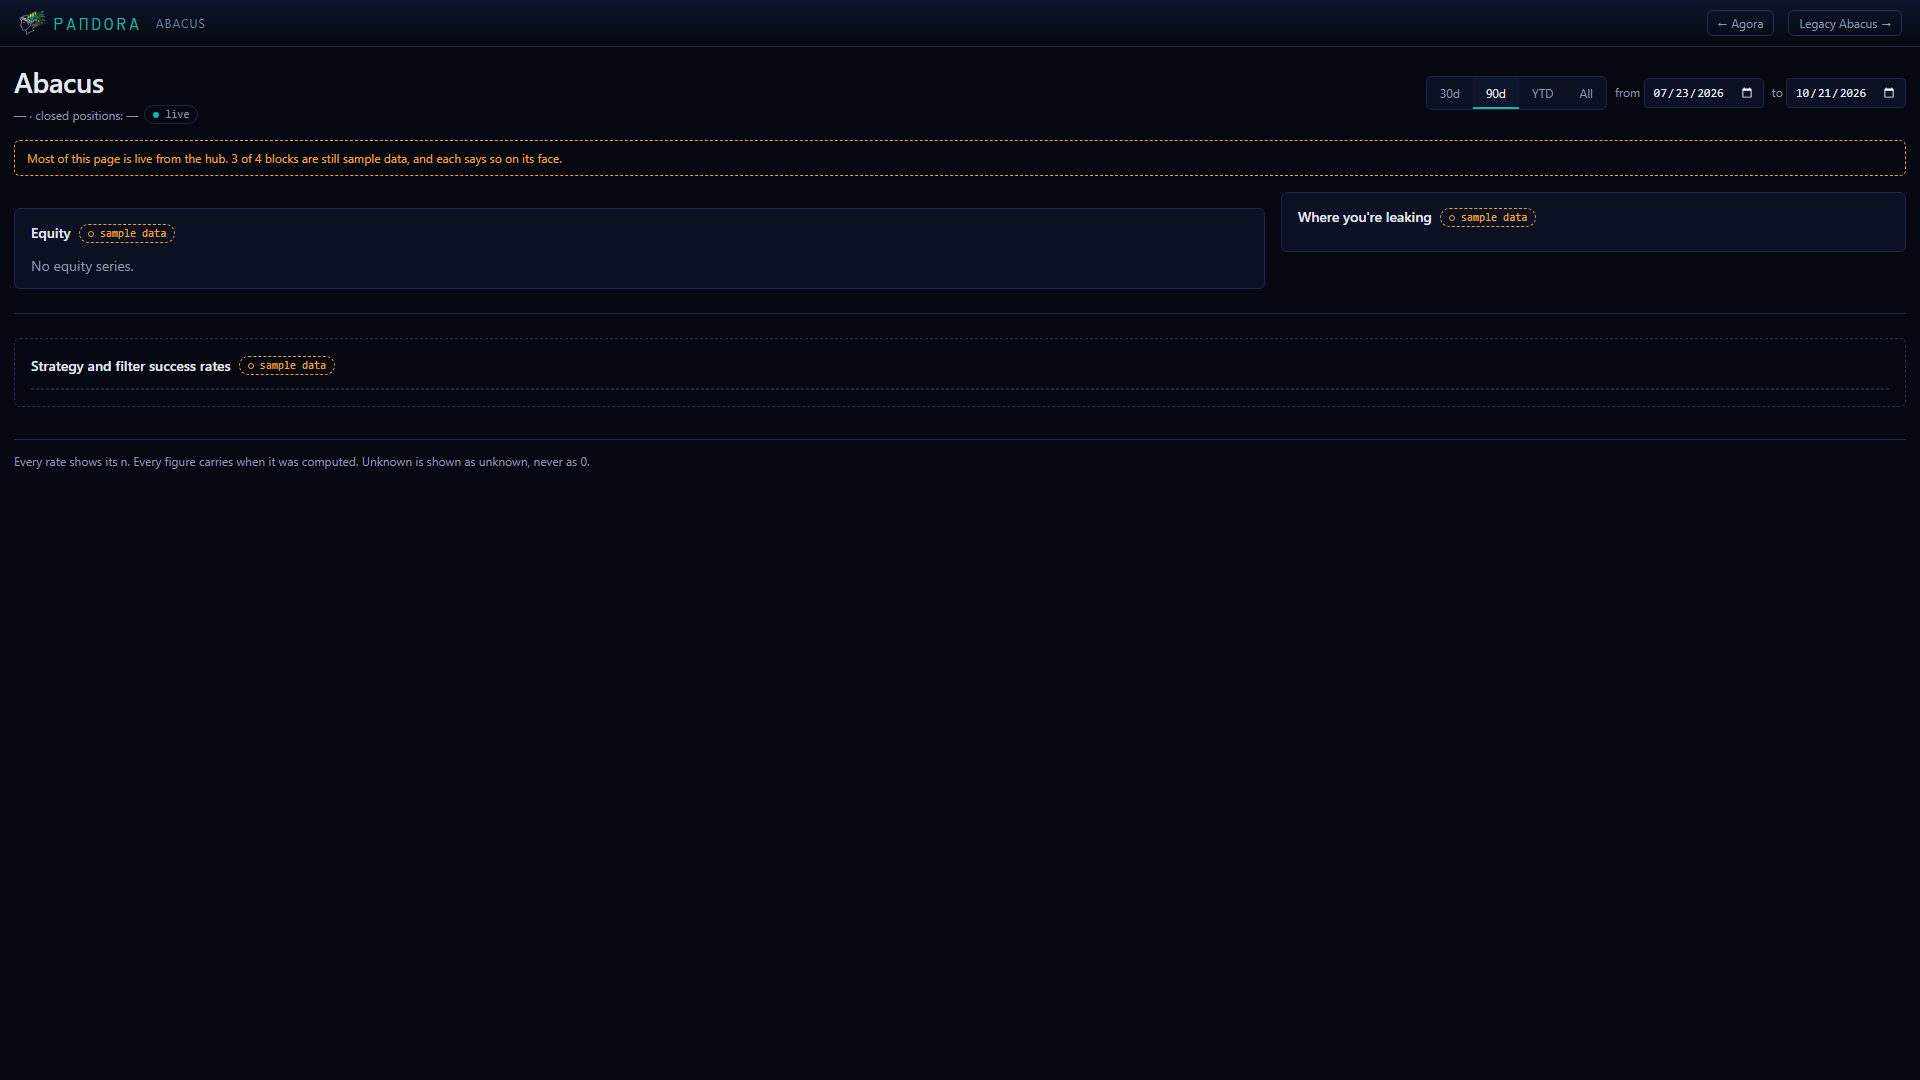
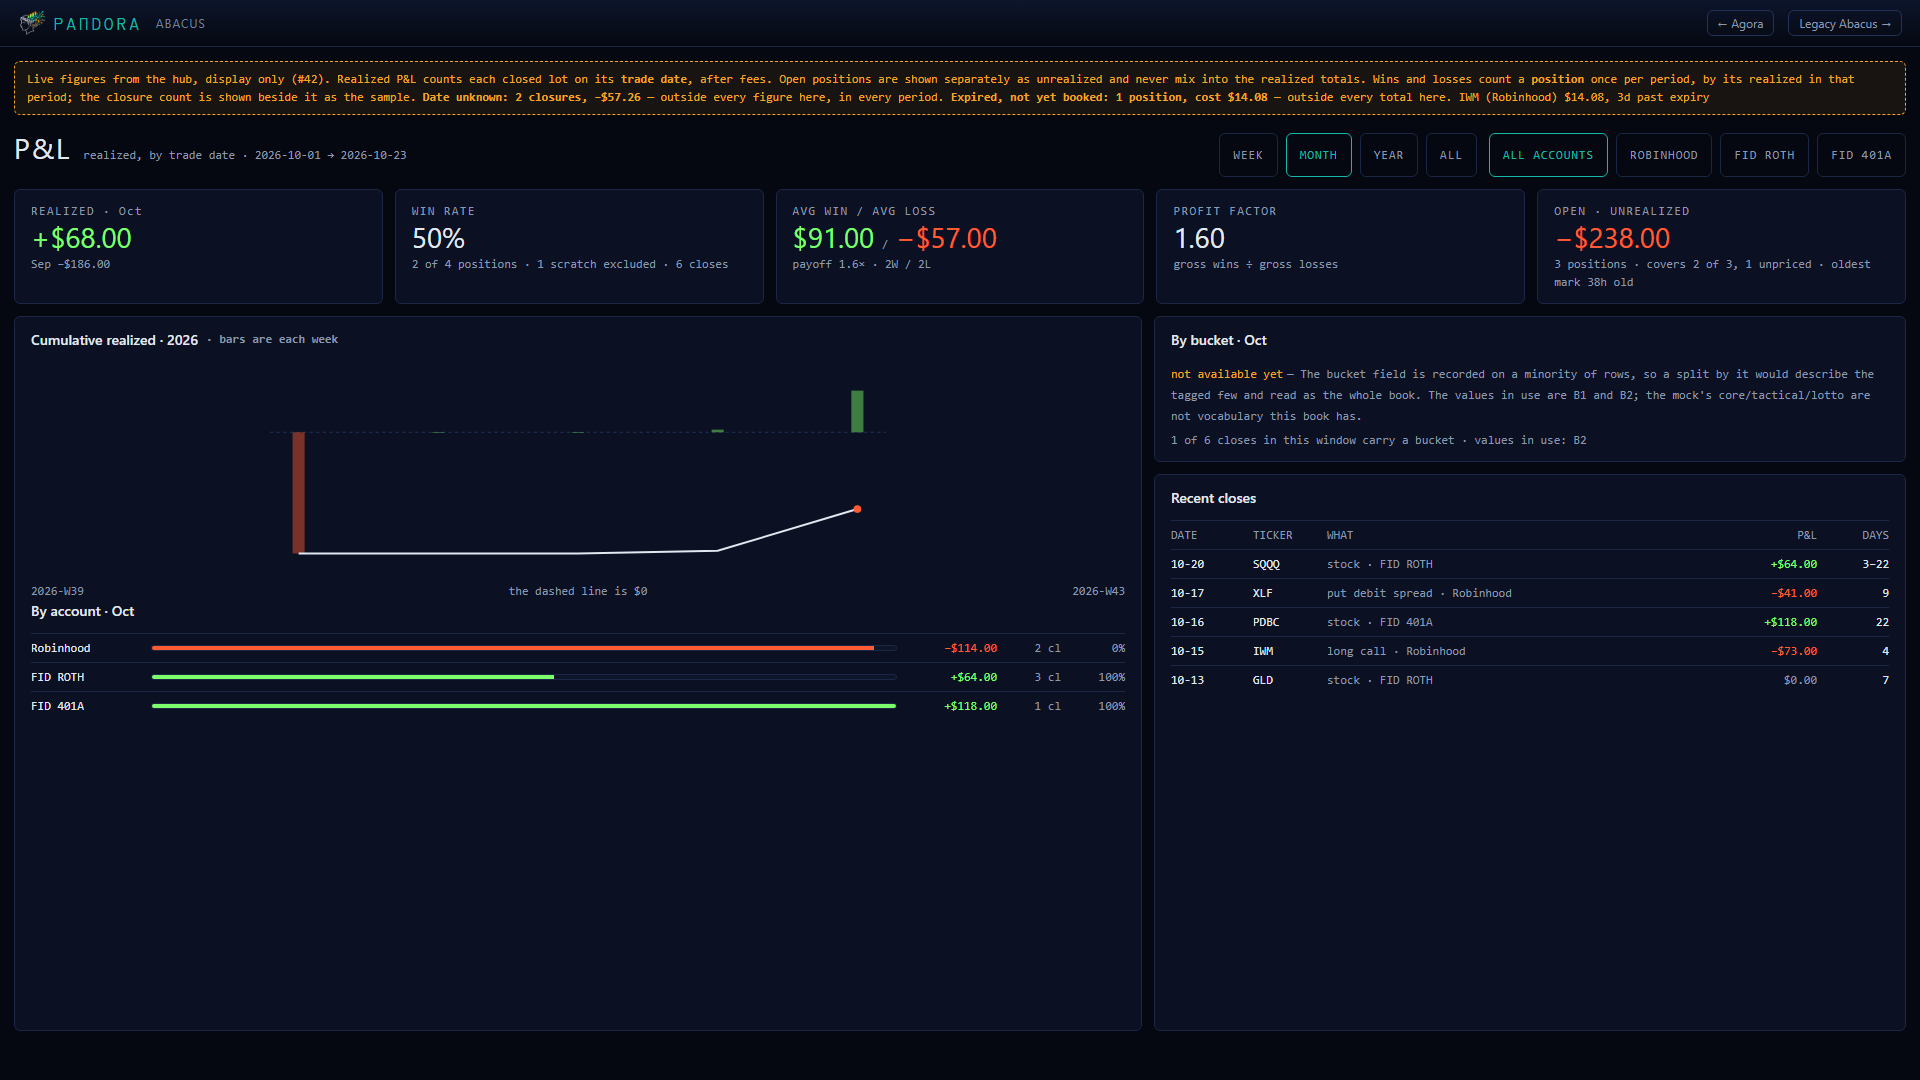
fix(abacus): the P&L page fits a phone (R-IV.1365(b)) (#77)
Five defects from the R-IV.1362 audit, all mine, all on the page Nick reads.

(b)1 NO MORE SIDEWAYS SCROLL. 75px at 360, 51 at 384, 23 at 412 -- the only
screen in the audit that scrolled horizontally. Both rows were fixed five-column
grids with a ~408px MINIMUM (112+60+92+56+56 and 74+66+80+92+64, plus four 8px
gaps) against a 332px content box. No column could shrink out of that, so below
420px they stop being grids and become WRAPPING LINES, which cannot overflow
because wrapping is what they do instead. The closes header is hidden there: it
names five columns that no longer exist, and a header that does not line up with
its data is worse than none.

(b)2 Tabs 32px -> 44px tall. They were comfortably tappable with a mouse, which
is what they had been measured with.

(b)3 12px floor, fixed AT THE TOKEN: `--fs-1` was 11px and 112 of the page's
sub-12px instances read `var(--fs-1)`. Patching them one rule at a time would
have left the next one at 11. The leftover literals in the summary view's own
components go up too -- still reachable behind ?view=summary until 2026-10-29.

  AND ONE OF THESE WOULD HAVE BEEN A FALSE FIX. The curve's axis labels were
  SVG <text font-size="9">. Raising the attribute to 12 makes a computed-style
  check report 12 and PASS, while the glyphs still paint near 7px: text inside a
  560-wide viewBox scaled into a ~332px container renders at about 59% of its
  attribute. They are HTML now, outside the SVG, where 12px is 12px.
[…]

diff --git a/frontend/abacus.css b/frontend/abacus.css
@@ -12,7 +12,10 @@
 .ab-page {
   --sp-1: 4px; --sp-2: 8px; --sp-3: 12px; --sp-4: 16px; --sp-5: 24px; --sp-6: 32px;
   --r-1: 4px; --r-2: 6px; --r-3: 10px;
-  --fs-1: 11px; --fs-2: 12px; --fs-3: 14px; --fs-4: 16px; --fs-5: 20px; --fs-6: 28px;
+  /* R-IV.1365(b)3: --fs-1 was 11px, which is where 112 of this page's sub-12px instances came
+     from. Raised at the TOKEN rather than patched per rule, because every one of them reads
+     `var(--fs-1)` and chasing them individually would leave the next one at 11px. */
+  --fs-1: 12px; --fs-2: 12px; --fs-3: 14px; --fs-4: 16px; --fs-5: 20px; --fs-6: 28px;
 
   /* R-IV.1319(b): FULL WIDTH, like the rest of the hub. This was `max-width: 1180px` with
      `margin: 0 auto`, which is the mockup's page size rather than a ruling -- (d) asked whether
@@ -88,9 +91,9 @@
 .ab-eq { width: 100%; height: auto; display: block; }
 .ab-eq-grid { stroke: var(--border); stroke-width: 1; }
 .ab-eq-grid.mid { stroke-dasharray: 3 6; }
-.ab-eq-axis { fill: var(--text-2); font: 11px var(--mono); }
+.ab-eq-axis { fill: var(--text-2); font: 12px var(--mono); }
 .ab-eq-dd { fill: var(--down); fill-opacity: .10; }
-.ab-eq-ddl { fill: var(--down); font: 11px var(--mono); }
+.ab-eq-ddl { fill: var(--down); font: 12px var(--mono); }
 .ab-eq-line { fill: none; stroke: var(--up); stroke-width: 2; }
 
 /* R-IV.705(c): one curve per account, stacked, each with its own span on its head. Tokens only. */
@@ -206,21 +209,21 @@
    name, and teal marks only the one being filtered to, exactly as on Agora. Rows for the other
    accounts stay visible and dimmed, so "All accounts" can be read against its parts. */
 .ab-acct-ctl { display: flex; flex-wrap: wrap; gap: 6px; margin: 4px 0 10px; }
-.ab-acct-ctl button { font-family: var(--mono); font-size: 11px; text-transform: none;
+.ab-acct-ctl button { font-family: var(--mono); font-size: 12px; text-transform: none;
   background: transparent; color: var(--text-2); border: 1px solid var(--border-strong);
   border-radius: 7px; padding: 6px 10px; min-height: 36px; cursor: pointer; }
 .ab-acct-ctl button[aria-pressed="true"] { color: var(--teal); border-color: var(--teal); }
 .ab-acct-table table { width: 100%; border-collapse: collapse; }
 .ab-acct-table th, .ab-acct-table td { text-align: left; padding: 7px 8px; border-top: 1px solid var(--border);
   font-family: var(--mono); font-size: 12px; }
-.ab-acct-table th { font-size: 10px; letter-spacing: 1px; text-transform: uppercase; color: var(--text-3);
+.ab-acct-table th { font-size: 12px; letter-spacing: 1px; text-transform: uppercase; color: var(--text-3);
   font-weight: 400; border-top: 0; }
 .ab-acct-table .ab-num { text-align: right; }
-.ab-acct-table .ab-n { display: block; font-size: 9px; color: var(--text-3); }
+.ab-acct-table .ab-n { display: block; font-size: 12px; color: var(--text-3); }
 .ab-acct-table tr.ab-total td { border-top: 1px solid var(--border-strong); color: var(--text); }
 /* Dimmed, not hidden — and the figures stay legible, so this is not an opacity veil over data. */
 .ab-acct-table tr.ab-dim td { color: var(--text-3); }
-.ab-acct-note { font-size: 11px; color: var(--text-3); line-height: 1.5; margin: 8px 0 0; }
+.ab-acct-note { font-size: 12px; color: var(--text-3); line-height: 1.5; margin: 8px 0 0; }
 @media (max-width: 820px) { .ab-acct-table { overflow-x: auto; } .ab-acct-ctl button { min-height: 44px; } }
 
 /* ── R-IV.1315 · THE P&L PREVIEW (?pnl=v1) ───────────────────────────────────────────────────
@@ -232,10 +235,12 @@
 .pnl-title { font-size: var(--fs-6); letter-spacing: 2px; }
 .pnl-sub { font-family: var(--mono); font-size: var(--fs-1); color: var(--text-2); }
 .pnl-tabs { display: flex; flex-wrap: wrap; gap: var(--sp-2); }
+/* R-IV.1365(b)2: 44px, the size a thumb actually hits. These were 32px tall -- comfortably
+   tappable with a mouse, which is what they were measured with. */
 .pnl-tabs button {
   font-family: var(--mono); font-size: var(--fs-1); letter-spacing: 1px; text-transform: uppercase;
-  padding: 4px 11px; border-radius: var(--r-2); border: 1px solid var(--border);
-  background: transparent; color: var(--text-2); min-height: 32px;
+  padding: 4px 13px; border-radius: var(--r-2); border: 1px solid var(--border);
+  background: transparent; color: var(--text-2); min-height: 44px;
 }
 .pnl-tabs button[aria-pressed="true"] { border-color: var(--teal); color: var(--teal); }
 .pnl-kpis { display: grid; gap: var(--sp-3); grid-template-columns: repeat(auto-fit, minmax(210px, 1fr)); }
@@ -246,7 +251,10 @@
 /* FULL HEIGHT as well as full width (R-IV.1319(b)): the preview is a column that fills the
    viewport, and the main grid takes the slack so the panels grow instead of leaving 400px of
    empty page under them on a 1080-tall screen -- which is what the first screenshot showed. */
-#abPnl { min-height: calc(100vh - 110px); }
+/* R-IV.1365(b)4: `dvh` after `vh`, not instead of it -- a browser that does not know `dvh`
+   keeps the `vh` line, and one that does overrides it with the height that accounts for a
+   browser bar. In the installed app the two agree; in a tab they do not. */
+#abPnl { min-height: calc(100vh - 110px); min-height: calc(100dvh - 110px); }
 .pnl-main { display: grid; gap: var(--sp-3); grid-template-columns: minmax(0, 3fr) minmax(0, 2fr);
   align-items: stretch; flex: 1; min-height: 0; }
 .pnl-main > .ab-card, .pnl-main > div { min-height: 0; }
@@ -265,6 +273,47 @@
   gap: var(--sp-2); align-items: center; font-family: var(--mono); font-size: var(--fs-1);
   padding: 5px 0; border-top: 1px solid var(--border); }
 .pnl-closes .r, .pnl-row .r { text-align: right; }
+/* ── R-IV.1365(b)1 · THE PHONE LAYOUT ────────────────────────────────────────────────────────
+   Both rows were fixed five-column grids with a ~408px MINIMUM -- 112+60+92+56+56 and
+   74+66+80+92+64, plus four 8px gaps -- against a 332px content box at 360. That is where the
+   75px of sideways scroll came from, and no amount of shrinking the columns fixes a minimum that
+   large: below 420px they stop being grids and become WRAPPING LINES, which cannot overflow
+   because wrapping is what they do instead.
+
+   I shipped those grids at R-IV.1315 with width checks at 1920, 2560 and 1366. None of them was
+   a phone, which is why a page that fills a 2560px screen could still not fit the one screen its
+   reader actually holds. (b)5 adds 360 and 384 to that standing check. */
+/* R-IV.1365(b)3, the last of the sub-12px text: v2.css shrinks `.v2-legacy-link` to 11px inside
+   its own phone query, and that topbar sits OUTSIDE `.ab-page`, so the token above cannot reach
+   it. Corrected HERE rather than in v2.css because this stylesheet loads only on the Abacus page
+   -- Agora's own topbar is BUILD's call to make, and changing it from this lane would be deciding
+   someone else's layout on the way past. */
+@media (max-width: 768px) {
+  .v2-topbar .v2-legacy-link { font-size: 12px; }
+  .v2-topbar .v2-sub { font-size: 12px; }
+}
+
+@media (max-width: 420px) {
+  .pnl-row, .pnl-closes {
+    display: flex; flex-wrap: wrap; align-items: baseline;
+    column-gap: 10px; row-gap: 2px;
+  }
+  /* Right-alignment is a column idea. In a wrapping line it pushes a number away from the label
+     it belongs to, so it goes. */
+  .pnl-row .r, .pnl-closes .r { text-align: left; }
+  /* The bar is the one part that still wants a full line of its own. */
+  .pnl-row .ab-bar { flex: 1 1 100%; order: 10; min-width: 0; }
+  /* The closes header names five columns that no longer exist. Hidden rather than left to wrap
+     into five words sitting above values they no longer line up with -- a header that does not
+     align with its data is worse than none. */
+  .pnl-closes.pnl-sub { display: none; }
+  .pnl-closes { padding: 7px 0; }
+  .pnl-kpis { grid-template-columns: minmax(0, 1fr); }
+}
+
+/* The curve's axis labels, as HTML so 12px means 12px (see the note in abacus-pnl.js). */
+.pnl-axis { display: flex; justify-content: space-between; gap: var(--sp-2); flex-wrap: wrap; }
+
 .pnl-up { color: var(--up); }
 .pnl-dn { color: var(--down); }
 .pnl-flat { color: var(--text-2); }

diff --git a/frontend/assets/abacus-pnl.js b/frontend/assets/abacus-pnl.js
@@ -106,15 +106,19 @@
     }).join('');
     var line = c.points.map(function (p, i) { return x(i).toFixed(1) + ',' + y(Number(p.cumulative)).toFixed(1); }).join(' ');
     var last = c.points[c.points.length - 1];
+    // R-IV.1365(b)3: THE AXIS LABELS ARE HTML, NOT SVG TEXT. They were <text font-size="9">, and
+    // raising that to 12 would have been a FALSE FIX: text inside a 560-wide viewBox scaled into
+    // a ~332px container paints at about 59% of its attribute, so "12" would still have rendered
+    // near 7px while a computed-style check read 12 and passed. Outside the SVG, 12px is 12px.
     return '<svg viewBox="0 0 ' + W + ' ' + H + '" role="img" aria-label="Cumulative realized, year to date">'
       + '<line x1="0" y1="' + zero.toFixed(1) + '" x2="' + W + '" y2="' + zero.toFixed(1) + '" stroke="var(--border-strong)" stroke-dasharray="3 3"></line>'
-      + '<text x="2" y="' + (zero - 4).toFixed(1) + '" fill="var(--text-2)" font-size="9" font-family="monospace">$0</text>'
       + bars
       + '<polyline points="' + line + '" fill="none" stroke="var(--text)" stroke-width="1.8"></polyline>'
       + '<circle cx="' + x(c.points.length - 1).toFixed(1) + '" cy="' + y(Number(last.cumulative)).toFixed(1) + '" r="3.5" fill="' + (Number(last.cumulative) < 0 ? 'var(--down)' : 'var(--up)') + '"></circle>'
-      + '<text x="2" y="' + (H - 4) + '" fill="var(--text-2)" font-size="9" font-family="monospace">' + esc(c.points[0].week) + '</text>'
-      + '<text x="' + (W - 60) + '" y="' + (H - 4) + '" fill="var(--text-2)" font-size="9" font-family="monospace">' + esc(last.week) + '</text>'
-      + '</svg>';
+      + '</svg>'
+      + '<div class="pnl-axis pnl-sub"><span>' + esc(c.points[0].week) + '</span>'
+      + '<span>the dashed line is $0</span>'
+      + '<span>' + esc(last.week) + '</span></div>';
   }
 
   function acctRows(list) {

diff --git a/frontend/abacus.html b/frontend/abacus.html
@@ -10,7 +10,7 @@
     <link href="https://fonts.googleapis.com/css2?family=Orbit&display=swap" rel="stylesheet">
     <!-- v2.css first: the tokens and the shell. abacus.css adds only this page. -->
     <link rel="stylesheet" href="/v2.css?v=68">
-    <link rel="stylesheet" href="/abacus.css?v=8">
+    <link rel="stylesheet" href="/abacus.css?v=9">
     <link rel="manifest" href="/manifest.json">
     <link rel="apple-touch-icon" href="/icon-192.png">
     <meta name="apple-mobile-web-app-capable" content="yes">
@@ -107,7 +107,7 @@
       })();
     </script>
 
-    <script src="/assets/abacus-pnl.js?v=3"></script>
+    <script src="/assets/abacus-pnl.js?v=4"></script>
     <script src="/abacus.js?v=10"></script>
 </body>
 </html>

diff --git a/tests/test_r1315_pnl_preview.py b/tests/test_r1315_pnl_preview.py
@@ -274,7 +274,12 @@ with sync_playwright() as p:
           'realized, by trade date' in pg.evaluate("() => document.body.innerText"))
 
     # ── R-IV.1319(c) · full width at three sizes, both views ────────────────────
-    for (w, h) in ((1920, 1080), (2560, 1440), (1366, 768)):
+    # R-IV.1365(b)5: 360 and 384 JOIN THE STANDING CHECK. The three desktop widths below are the
+    # ones I shipped R-IV.1315 against, and they are why a page that fills a 2560px screen still
+    # scrolled sideways by 75px on the phone its reader actually holds. A width check that never
+    # looks at a phone is a width check with a hole in exactly the place it matters most.
+    # 360 is the Galaxy S25; 384 the S25+/Ultra class.
+    for (w, h) in ((360, 780), (384, 832), (1920, 1080), (2560, 1440), (1366, 768)):
         for path, tag in (('abacus.html?pnl=v1', 'pnl'), ('abacus.html', 'summary')):
             pp, pctx, perrs = page(b, path, w, h)
             geo = pp.evaluate("""() => {
@@ -287,6 +292,34 @@ with sync_playwright() as p:
                         padL: cs ? cs.paddingLeft : null, maxW: cs ? cs.maxWidth : null}; }""")
             check('%dx%d %s: no horizontal scroll' % (w, h, tag),
                   geo['scrollW'] <= geo['clientW'] + 1, geo)
+            # At phone widths, also pin the two faults the audit found on this page: nothing may
+            # stick past the right edge, and a tab must be thumb-sized.
+            if w <= 420 and tag == 'pnl':
+                bad = pp.evaluate("""() => {
+                    const vw = document.documentElement.clientWidth, out = [];
+                    document.querySelectorAll('#abPnl *').forEach((e) => {
+                      if (e.children.length) return;
+                      const r = e.getBoundingClientRect();
+                      if (r.width > 0 && r.right > vw + 1) {
+                        out.push((e.textContent||'').trim().slice(0,24) + ' right=' + Math.round(r.right));
+                      }
+                    });
+                    return out.slice(0, 6); }""")
+                check('%dpx: nothing on the P&L page sticks past the right edge' % w, not bad, bad)
+                small = pp.evaluate("""() => [...document.querySelectorAll('#abPnl button')]
+                    .map((b) => ({t: b.textContent.trim().slice(0,14),
+                                  h: Math.round(b.getBoundingClientRect().height)}))
+                    .filter((x) => x.h < 44)""")
+                check('%dpx: every P&L button is at least 44px tall' % w, not small, small)
+                tiny = pp.evaluate("""() => {
+                    const out = [];
+                    document.querySelectorAll('#abPnl *').forEach((e) => {
+                      if (e.children.length || !(e.textContent||'').trim()) return;
+                      const px = parseFloat(getComputedStyle(e).fontSize);
+                      if (px && px < 12) out.push((e.textContent||'').trim().slice(0,20) + ' @' + px);
+                    });
+                    return out.slice(0, 6); }""")
+                check('%dpx: no text on the P&L page under 12px' % w, not tiny, tiny)
             # NO EMPTY SIDE GUTTER: the container spans the viewport apart from its own padding.
             check('%dx%d %s: the page fills the width (no centred column)' % (w, h, tag),
                   geo['maxW'] == 'none' and geo['pageW'] is not None

diff --git a/tests/test_r1262_date_basis_ui.py b/tests/test_r1262_date_basis_ui.py
@@ -290,7 +290,13 @@ with sync_playwright() as p:
     b = getattr(p, ENGINE).launch()
 
     # ── (b)1 · ABACUS ───────────────────────────────────────────────────────────
-    pg, ctx, errs, assets = open_page(b, 'abacus.html')
+    # R-IV.1356 made the P&L view the DEFAULT, so `abacus.html` with no query no longer
+    # renders the summary page these checks are about. They ask for it explicitly now.
+    # THIS SUITE WENT RED AT R-IV.1356 AND I DID NOT NOTICE, because I ran the R-IV.1315
+    # suite and the backend tests that turn and not this one. A test that is not run is
+    # not a test; the lesson is to run every suite the change can reach, not the ones the
+    # change was written against.
+    pg, ctx, errs, assets = open_page(b, 'abacus.html?view=summary')
     tiles = pg.evaluate("""() => [...document.querySelectorAll('.ab-stat')].map((e) => ({
         key: e.dataset.key, basis: e.dataset.basis || null, text: e.textContent,
         chips: [...e.querySelectorAll('.ab-chip')].map((c) => c.textContent.trim()) }))""")
@@ -346,7 +352,7 @@ with sync_playwright() as p:
     # because the day BUILD's column lands, nobody should have to hunt a stale warning down.
     for d in [BASIS] + [b.get('date_basis') for b in SUMMARY['breakdowns'] if b.get('date_basis')]:
         d['trade_date_exists'] = True
-    pg, ctx, errs, assets = open_page(b, 'abacus.html')
+    pg, ctx, errs, assets = open_page(b, 'abacus.html?view=summary')
     body = pg.evaluate("() => document.body.textContent || ''")
     check('once trade_date exists the basis treatment is GONE from the page',
           'by write date' not in body and 'dated by when the row was' not in body,
